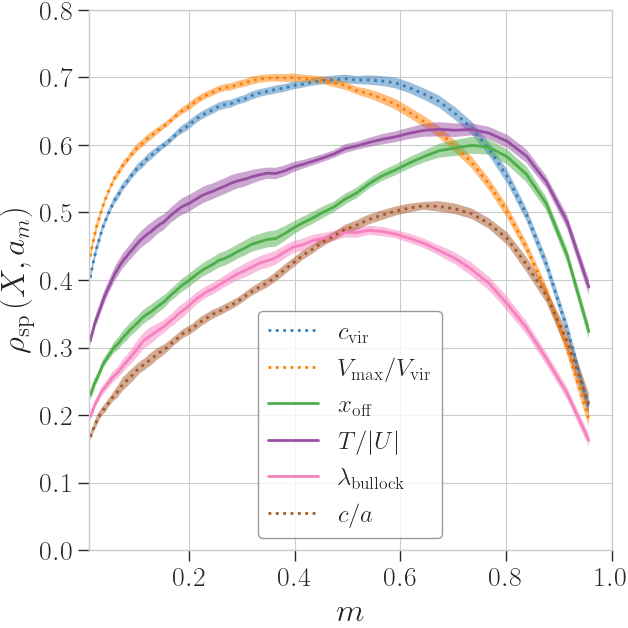
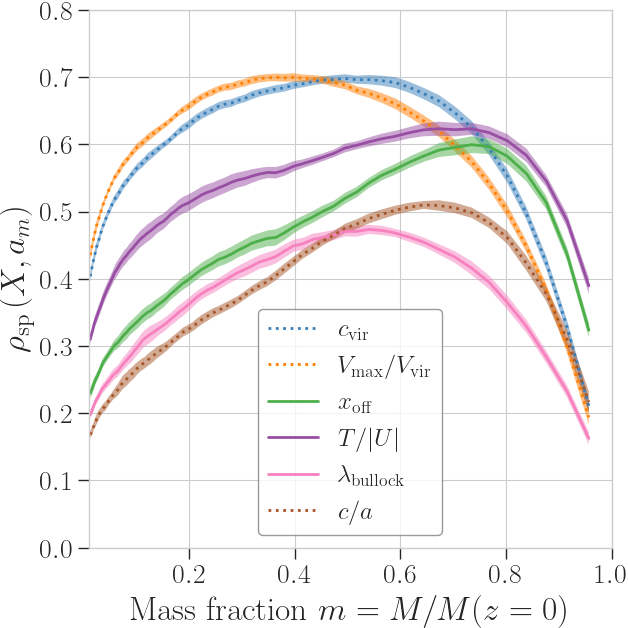
add more explicit names

diff --git a/bin/figures.py b/bin/figures.py
@@ -206,7 +206,7 @@ class CorrelationMAH(Figure):
         ax.set_ylim(0, 0.8)
         ax.set_xlim(0, 1.0)
         ax.set_ylabel(rf"${rho_latex}\left(X, m_{{a}}\right)$")
-        ax.set_xlabel("$a$")
+        ax.set_xlabel(r"\rm Expansion factor $a=1/(1+z)$")
 
         # add additional x-axis with tydn fractional scale
         ax2 = ax.twiny()
@@ -264,7 +264,7 @@ class CorrelationMAH(Figure):
         ax.set_ylim(0, 0.8)
         ax.set_xlim(0.01, 1.0)
         ax.set_ylabel(rf"${rho_latex}\left(X, a_{{m}}\right)$")
-        ax.set_xlabel("$m$")
+        ax.set_xlabel(r"\rm Mass fraction $m=M/M(z=0)$")
         ax.tick_params(axis="both", which="major")
         ax.tick_params(axis="x", which="minor")
         ax.legend(loc="best")
